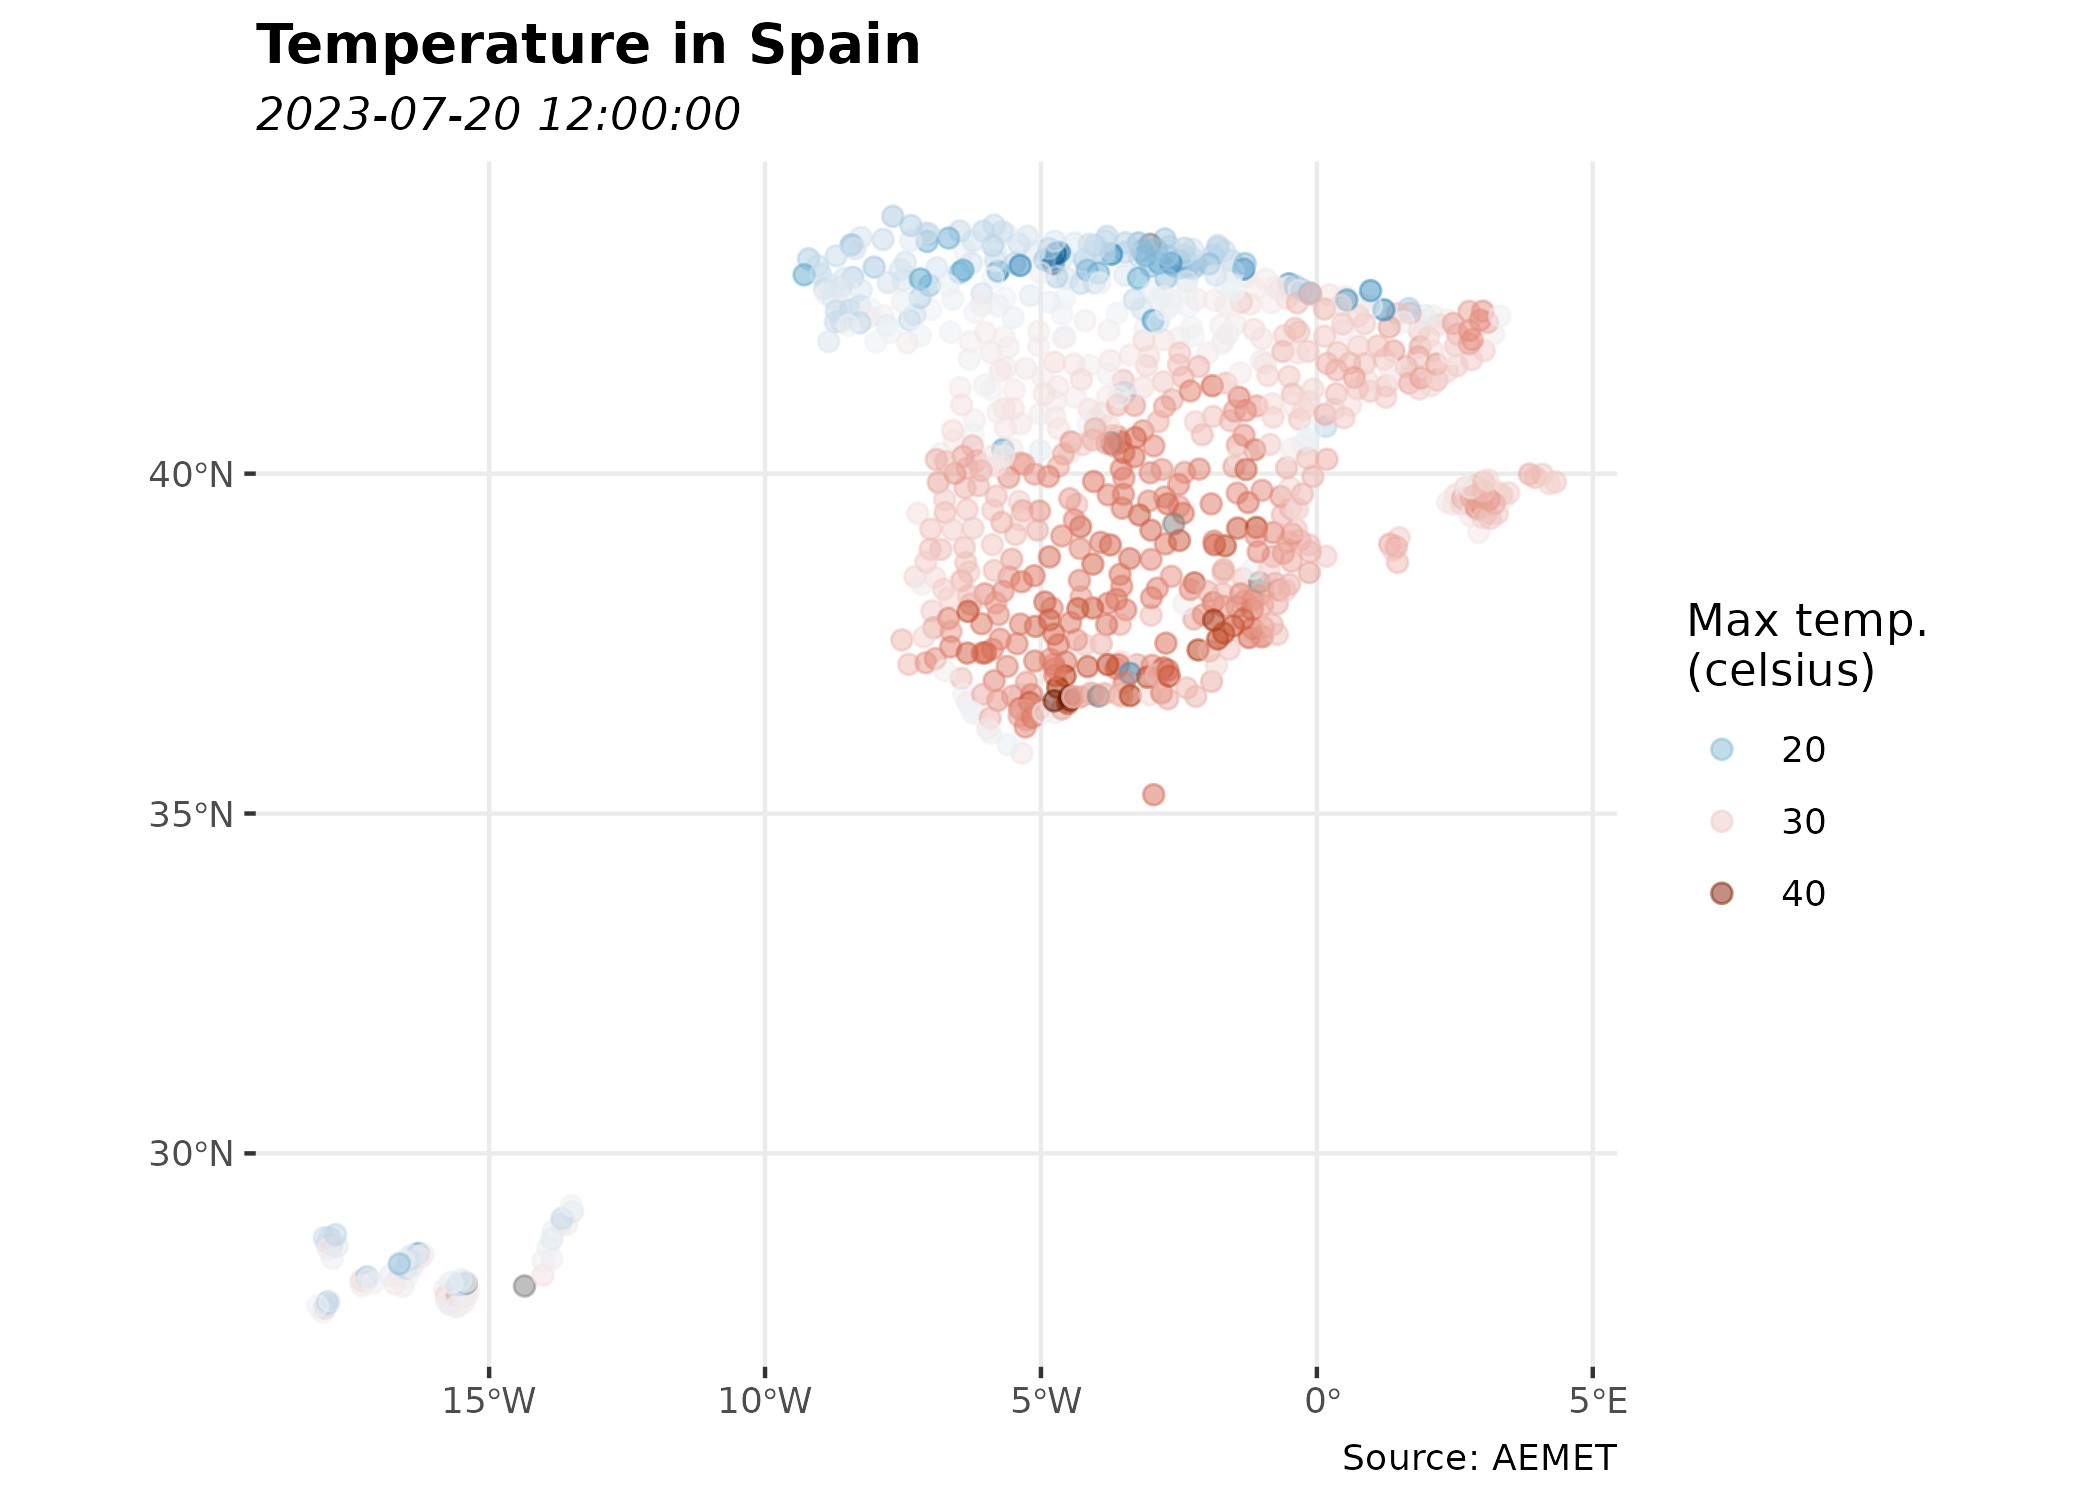
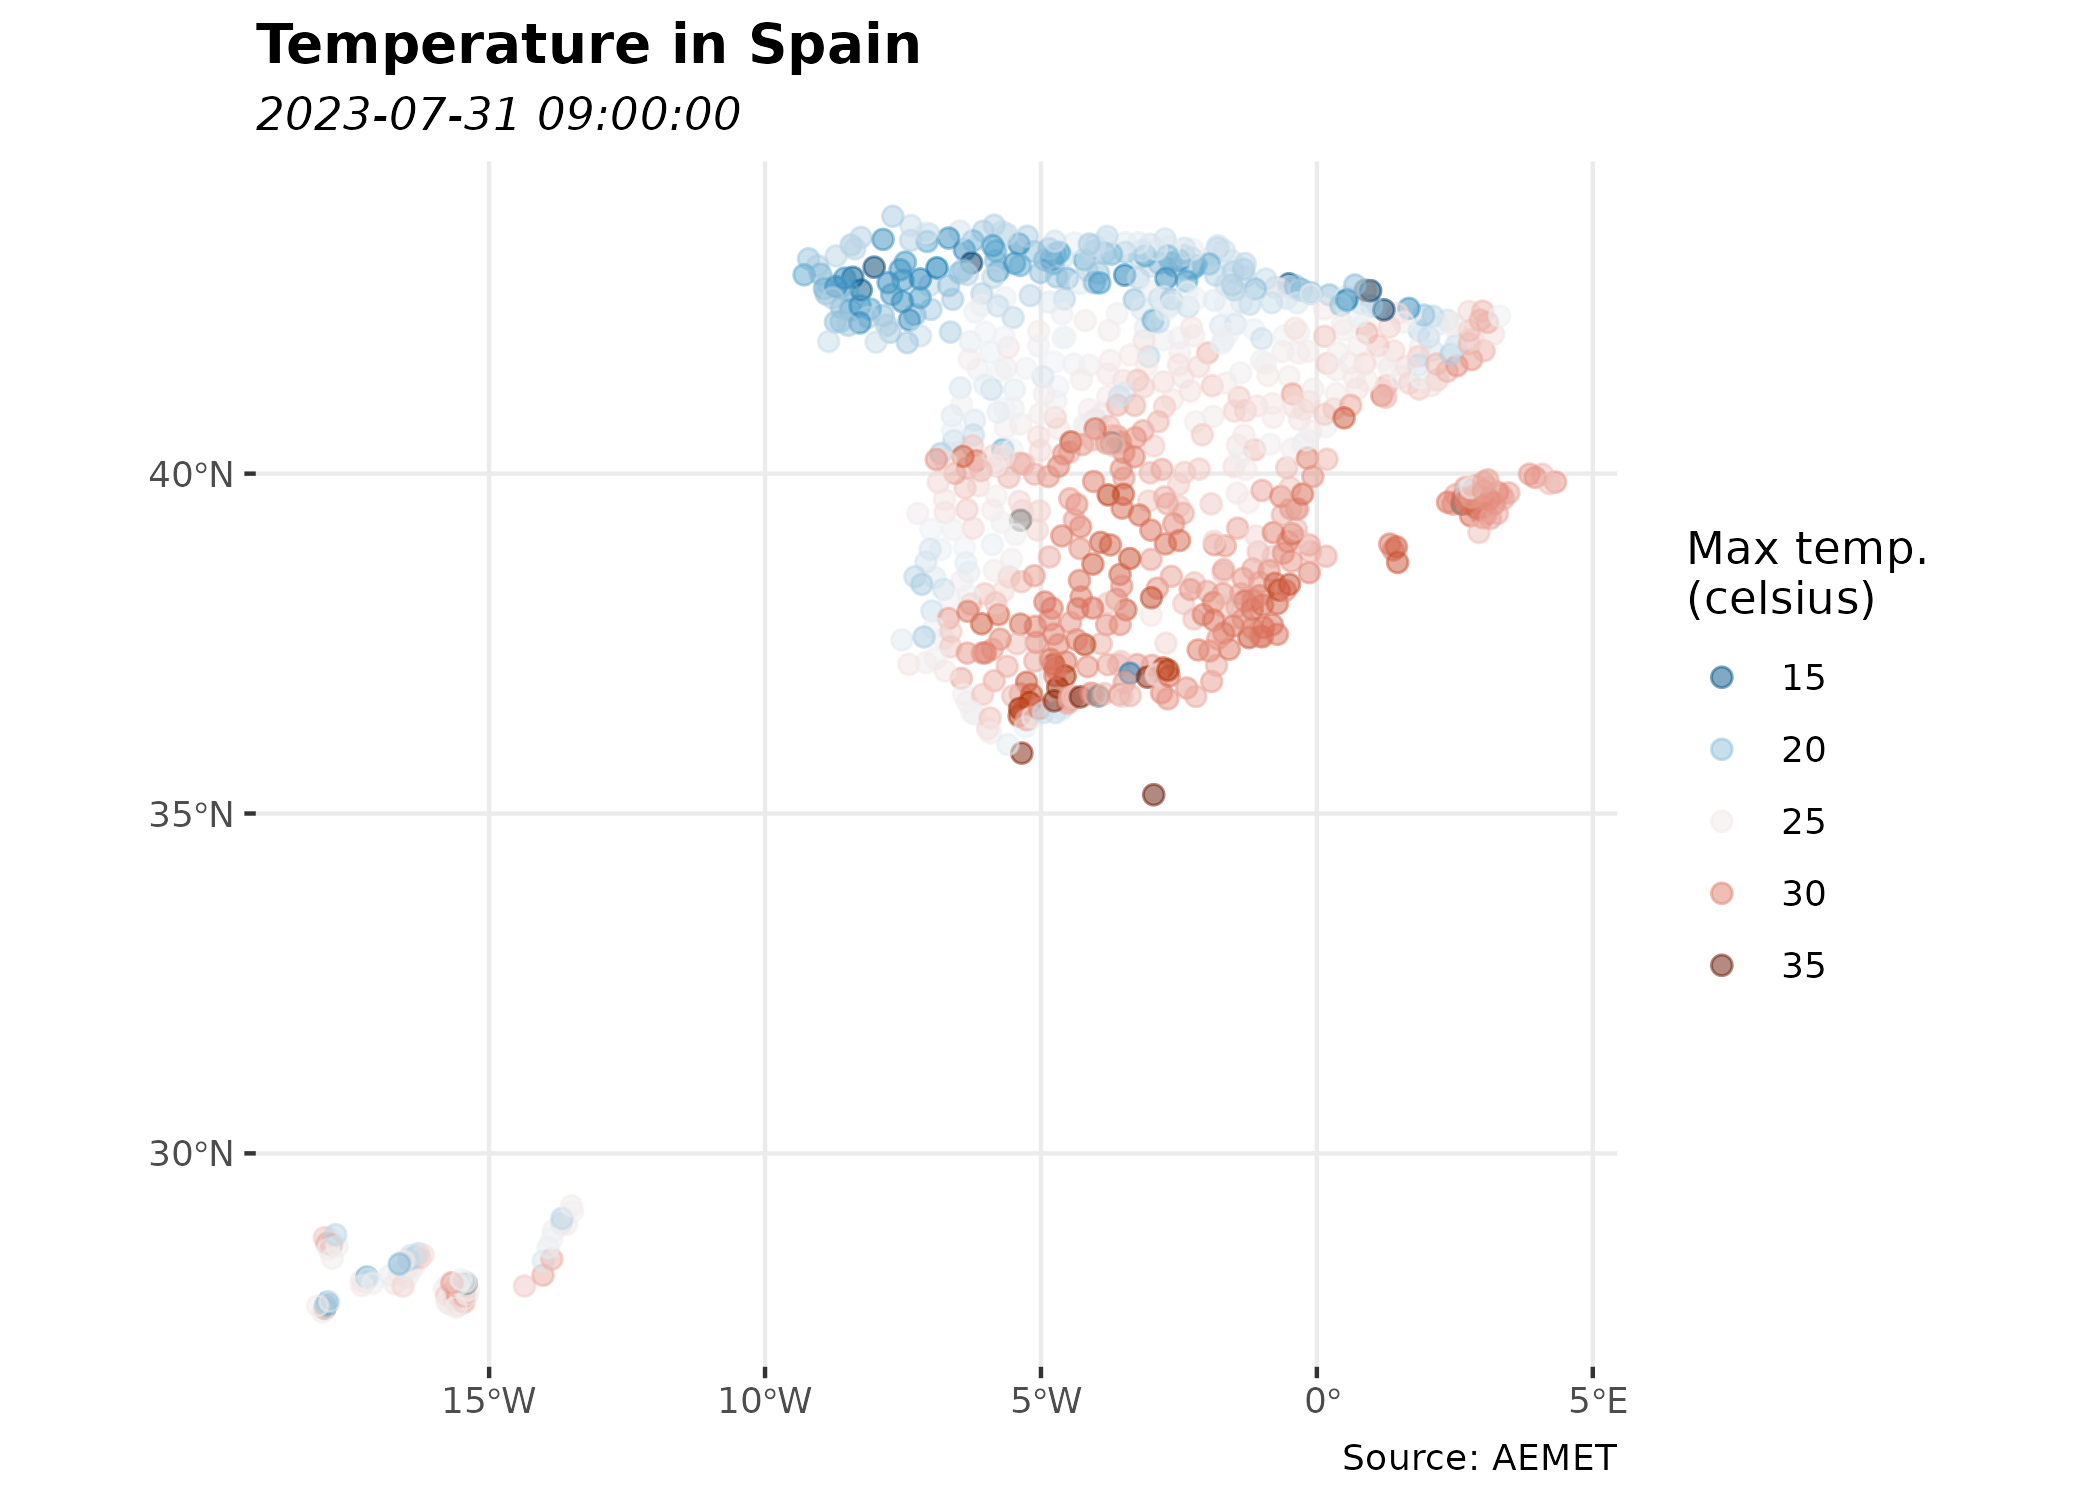
Improve docs

diff --git a/README.md b/README.md
@@ -117,20 +117,20 @@ library(climaemet)
 # See a tibble in action
 
 aemet_last_obs("9434")
-#> # A tibble: 23 × 25
+#> # A tibble: 24 × 25
 #>    idema   lon fint                 prec   alt  vmax    vv    dv   lat  dmax
 #>    <chr> <dbl> <dttm>              <dbl> <dbl> <dbl> <dbl> <dbl> <dbl> <dbl>
-#>  1 9434  -1.00 2023-07-20 12:00:00     0   249   4.4   1.6   299  41.7   310
-#>  2 9434  -1.00 2023-07-20 13:00:00     0   249   3.9   1.6   194  41.7   335
-#>  3 9434  -1.00 2023-07-20 14:00:00     0   249   3     1.5    60  41.7    93
-#>  4 9434  -1.00 2023-07-20 15:00:00     0   249   6.2   3.4   322  41.7   308
-#>  5 9434  -1.00 2023-07-20 16:00:00     0   249   6     2.8   325  41.7   305
-#>  6 9434  -1.00 2023-07-20 17:00:00     0   249   7.1   5.1   312  41.7   305
-#>  7 9434  -1.00 2023-07-20 18:00:00     0   249  12.2   8.7   314  41.7   310
-#>  8 9434  -1.00 2023-07-20 19:00:00     0   249  14.1   9.8   313  41.7   330
-#>  9 9434  -1.00 2023-07-20 20:00:00     0   249  14.1  10.3   307  41.7   305
-#> 10 9434  -1.00 2023-07-20 21:00:00     0   249  14.5  10.6   305  41.7   308
-#> # ℹ 13 more rows
+#>  1 9434  -1.00 2023-07-31 09:00:00     0   249   8.7   5.9   309  41.7   295
+#>  2 9434  -1.00 2023-07-31 10:00:00     0   249   8.4   5.4   310  41.7   303
+#>  3 9434  -1.00 2023-07-31 11:00:00     0   249   9.4   5.2   303  41.7   303
+#>  4 9434  -1.00 2023-07-31 12:00:00     0   249   7.7   4.4   312  41.7   303
+#>  5 9434  -1.00 2023-07-31 13:00:00     0   249   6.4   2.5   289  41.7   323
+#>  6 9434  -1.00 2023-07-31 14:00:00     0   249   4.5   2.2   326  41.7   335
+#>  7 9434  -1.00 2023-07-31 15:00:00     0   249   5.9   1.8   313  41.7   315
+#>  8 9434  -1.00 2023-07-31 16:00:00     0   249   6.3   4.1   310  41.7   293
+#>  9 9434  -1.00 2023-07-31 17:00:00     0   249   7.8   4.9   316  41.7   303
+#> 10 9434  -1.00 2023-07-31 18:00:00     0   249   8.6   4.7   316  41.7   313
+#> # ℹ 14 more rows
 #> # ℹ 15 more variables: ubi <chr>, pres <dbl>, hr <dbl>, stdvv <dbl>, ts <dbl>,
 #> #   pres_nmar <dbl>, tamin <dbl>, ta <dbl>, tamax <dbl>, tpr <dbl>,
 #> #   stddv <dbl>, inso <dbl>, tss5cm <dbl>, pacutp <dbl>, tss20cm <dbl>
@@ -169,12 +169,12 @@ knitr::kable(head(data_observation))
 
 | idema |       lon | fint                | prec | alt | vmax |  vv |  dv |      lat | dmax | ubi                 |  pres |  hr | stdvv |   ts | pres_nmar | tamin |   ta | tamax |  tpr | stddv | inso | tss5cm | pacutp | tss20cm |
 |:------|----------:|:--------------------|-----:|----:|-----:|----:|----:|---------:|-----:|:--------------------|------:|----:|------:|-----:|----------:|------:|-----:|------:|-----:|------:|-----:|-------:|-------:|--------:|
-| 9434  | -1.004167 | 2023-07-20 12:00:00 |    0 | 249 |  4.4 | 1.6 | 299 | 41.66056 |  310 | ZARAGOZA AEROPUERTO | 983.7 |  39 |   0.7 | 34.2 |    1012.0 |  26.1 | 28.1 |  28.1 | 12.8 |    42 |   60 |   36.3 |   0.00 |    30.7 |
-| 9434  | -1.004167 | 2023-07-20 13:00:00 |    0 | 249 |  3.9 | 1.6 | 194 | 41.66056 |  335 | ZARAGOZA AEROPUERTO | 982.7 |  36 |   0.4 | 34.1 |    1010.8 |  28.1 | 29.9 |  29.9 | 13.3 |    35 |   60 |   38.2 |   0.00 |    31.1 |
-| 9434  | -1.004167 | 2023-07-20 14:00:00 |    0 | 249 |  3.0 | 1.5 |  60 | 41.66056 |   93 | ZARAGOZA AEROPUERTO | 981.8 |  34 |   0.6 | 36.1 |    1009.8 |  29.7 | 31.3 |  31.3 | 13.6 |    98 |   60 |   39.6 |   0.00 |    31.6 |
-| 9434  | -1.004167 | 2023-07-20 15:00:00 |    0 | 249 |  6.2 | 3.4 | 322 | 41.66056 |  308 | ZARAGOZA AEROPUERTO | 981.3 |  34 |   1.4 | 39.1 |    1009.2 |  31.3 | 32.3 |  32.6 | 14.4 |    32 |   60 |   40.4 |   0.03 |    32.2 |
-| 9434  | -1.004167 | 2023-07-20 16:00:00 |    0 | 249 |  6.0 | 2.8 | 325 | 41.66056 |  305 | ZARAGOZA AEROPUERTO | 980.8 |  32 |   0.9 | 38.5 |    1008.6 |  32.1 | 32.6 |  32.6 | 13.8 |    27 |   60 |   40.5 |   0.00 |    32.8 |
-| 9434  | -1.004167 | 2023-07-20 17:00:00 |    0 | 249 |  7.1 | 5.1 | 312 | 41.66056 |  305 | ZARAGOZA AEROPUERTO | 980.3 |  32 |   1.1 | 37.5 |    1008.1 |  32.6 | 32.7 |  33.0 | 13.9 |    14 |   60 |   40.0 |   0.00 |    33.3 |
+| 9434  | -1.004167 | 2023-07-31 09:00:00 |    0 | 249 |  8.7 | 5.9 | 309 | 41.66056 |  295 | ZARAGOZA AEROPUERTO | 989.2 |  48 |   0.8 | 32.0 |    1018.1 |  22.2 | 24.1 |  24.1 | 12.4 |     9 |   60 |   30.2 |    0.0 |    30.5 |
+| 9434  | -1.004167 | 2023-07-31 10:00:00 |    0 | 249 |  8.4 | 5.4 | 310 | 41.66056 |  303 | ZARAGOZA AEROPUERTO | 988.8 |  45 |   0.9 | 34.2 |    1017.6 |  23.9 | 25.4 |  25.4 | 12.6 |     7 |   60 |   32.2 |    0.0 |    30.4 |
+| 9434  | -1.004167 | 2023-07-31 11:00:00 |    0 | 249 |  9.4 | 5.2 | 303 | 41.66056 |  303 | ZARAGOZA AEROPUERTO | 988.3 |  29 |   1.0 | 37.4 |    1016.8 |  25.4 | 28.0 |  28.0 |  8.3 |    12 |   60 |   34.4 |    0.0 |    30.4 |
+| 9434  | -1.004167 | 2023-07-31 12:00:00 |    0 | 249 |  7.7 | 4.4 | 312 | 41.66056 |  303 | ZARAGOZA AEROPUERTO | 987.5 |  23 |   1.0 | 38.8 |    1015.8 |  27.9 | 30.1 |  30.1 |  6.7 |    10 |   60 |   36.8 |    0.1 |    30.7 |
+| 9434  | -1.004167 | 2023-07-31 13:00:00 |    0 | 249 |  6.4 | 2.5 | 289 | 41.66056 |  323 | ZARAGOZA AEROPUERTO | 986.6 |  19 |   0.8 | 39.5 |    1014.7 |  30.1 | 31.7 |  31.8 |  5.3 |    21 |   60 |   38.8 |    0.0 |    31.1 |
+| 9434  | -1.004167 | 2023-07-31 14:00:00 |    0 | 249 |  4.5 | 2.2 | 326 | 41.66056 |  335 | ZARAGOZA AEROPUERTO | 985.6 |  24 |   0.8 | 40.9 |    1013.5 |  31.7 | 33.3 |  33.3 | 10.0 |    27 |   60 |   40.4 |    0.0 |    31.6 |
 
 ``` r
 
@@ -239,8 +239,6 @@ climatestripes_station("9434", start = 1980, end = 2020) +
   theme(plot.title = element_text(size = 10))
 ```
 
-<img src="man/figures/README-climatestripes-1.png" width="100%" />
-
 Furthermore, we can draw the well-known Walter & Lieth climatic diagram
 for a weather station and over a specified period of time:
 
@@ -248,8 +246,6 @@ for a weather station and over a specified period of time:
 # Plot of a Walter & Lieth climatic diagram (normal climatology values) for a station
 climatogram_normal("9434", labels = "en")
 ```
-
-<img src="man/figures/README-climatogram-1.png" width="100%" />
 
 Additionally, we may be interested in drawing the wind speed and
 direction over a period of time for the data downloaded from a weather
@@ -263,8 +259,6 @@ windrose_days("9434",
 ) +
   theme(plot.title = element_text(size = 10))
 ```
-
-<img src="man/figures/README-windrose-1.png" width="100%" />
 
 ## … and spatial!
 
